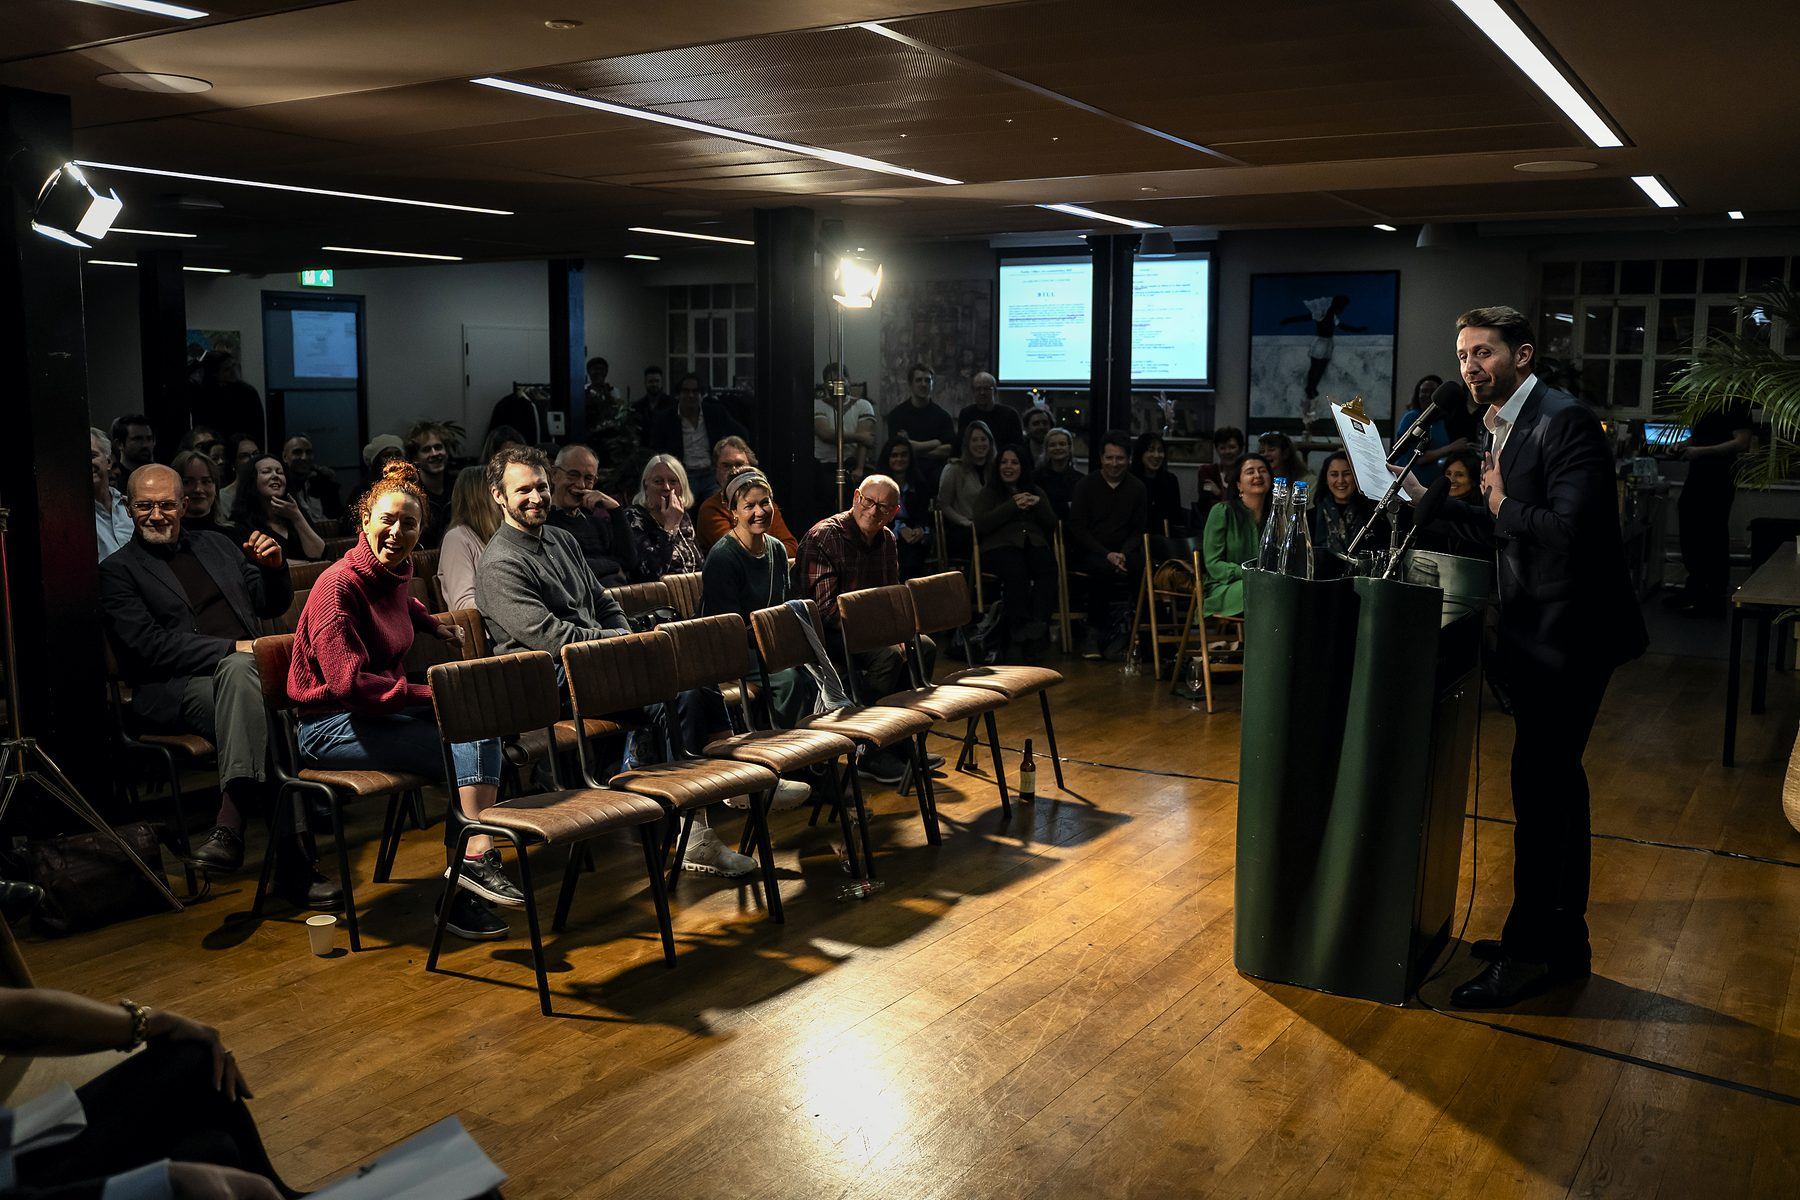
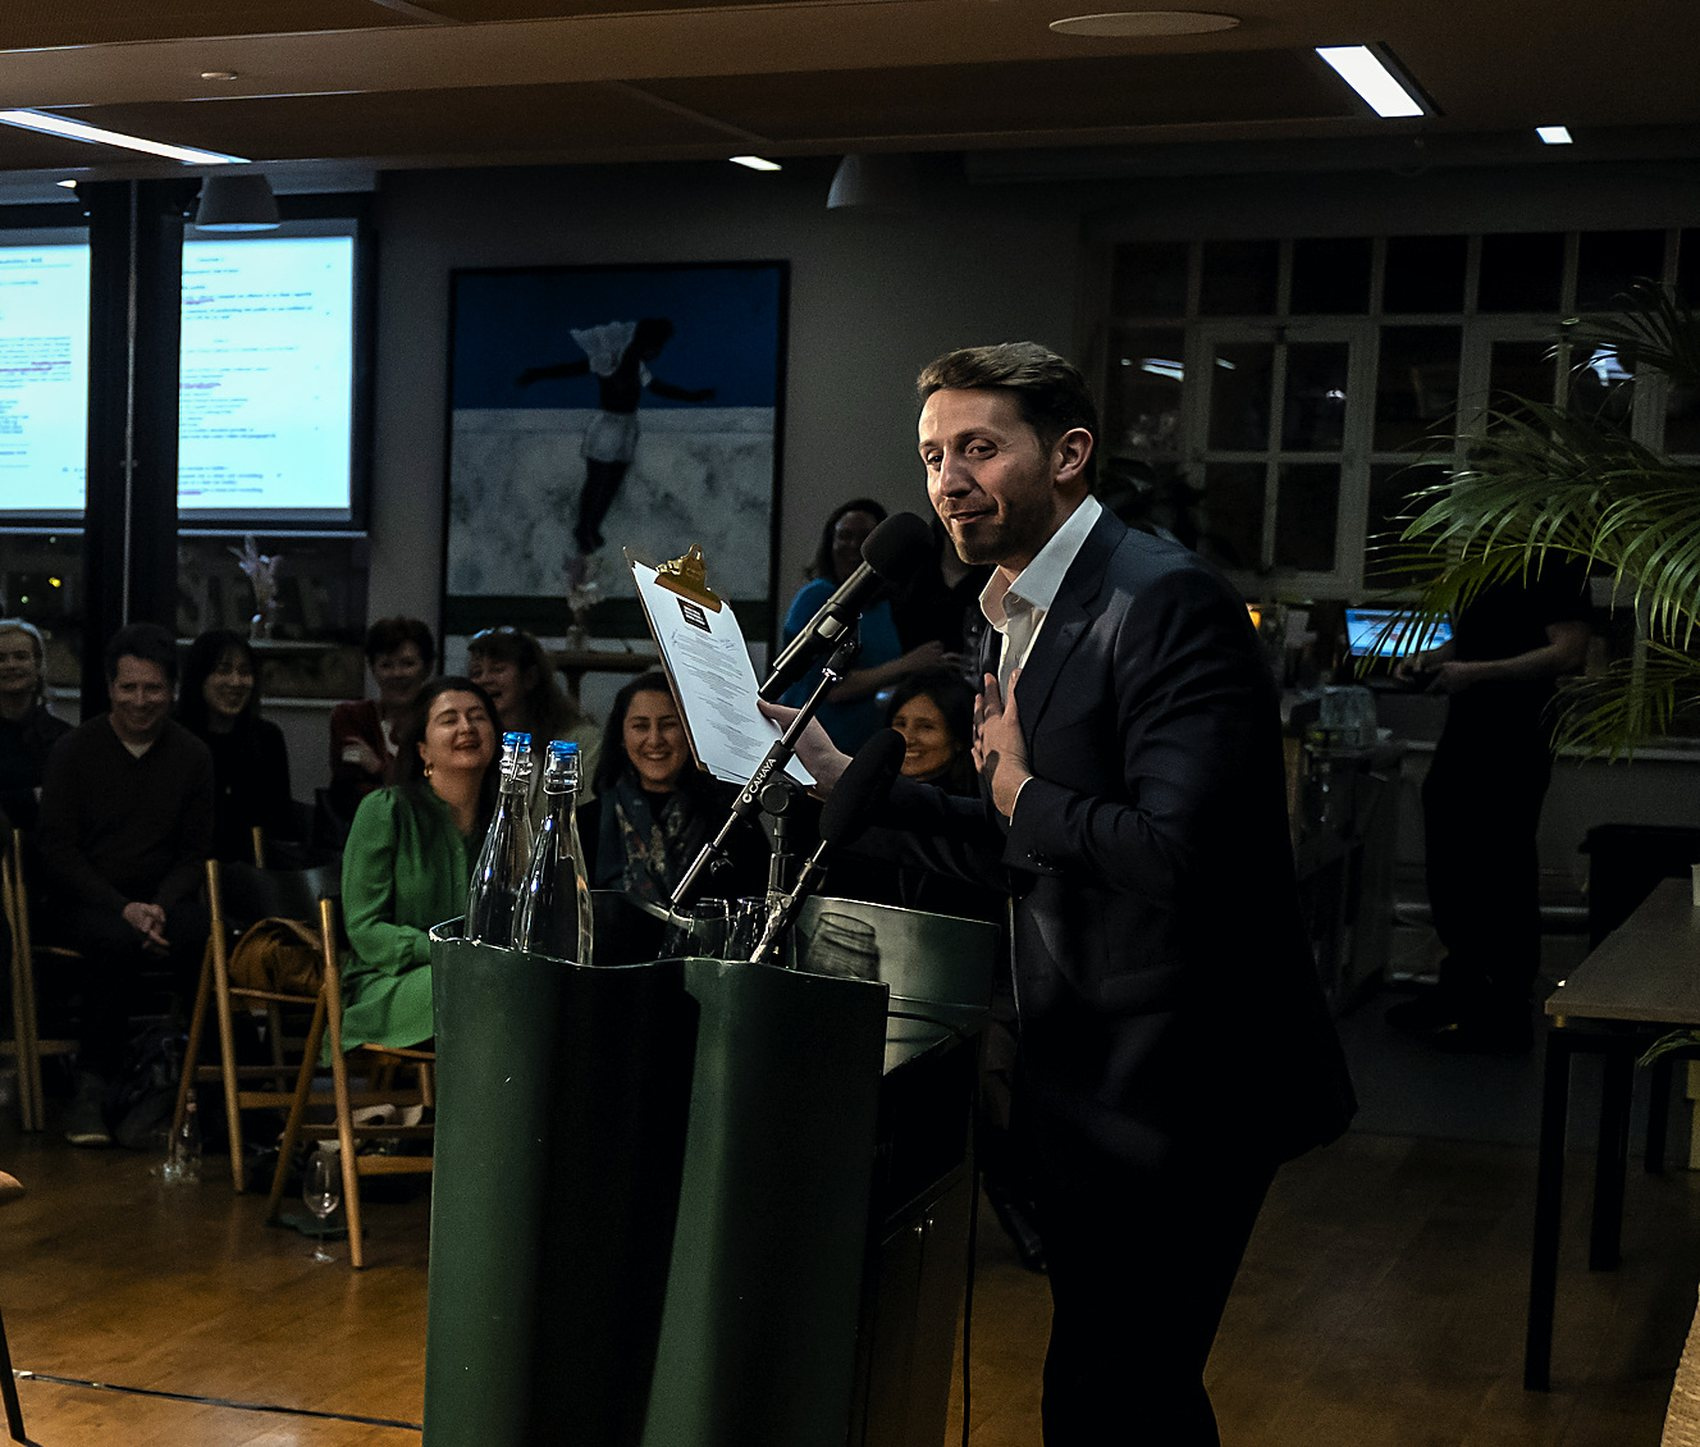
New home photograph, newsletter box confined, gallery cut to nineteen
Home hero is now image 38, cropped so Marcus is at the lectern on the right,
clear of the text column and the bar, with the packed room filling the frame.
Testimonials takes image 25, cropped past the empty chairs. The newsletter box
appears on the home page and the contact page only. The Photographs page is
rebuilt from scratch with the nineteen chosen frames.

diff --git a/index.html b/index.html
@@ -13,9 +13,9 @@
        The background locks onto these coordinates so, no matter what else changes
        on the site, his face stays consistently and pleasingly placed. If the hero
        image (mjb-bg.jpg) is ever replaced, update ONLY these three values. */
-    --hero-zoom:118%;  /* how far to zoom in on the face (background-size height) */
-    --hero-x:50%;      /* face horizontal focal position */
-    --hero-y:32%}       /* vertical focal: top of head sits just under the titles (clear gap), only the tops of the audience peek in at the bottom */
+    --hero-zoom:100%;  /* how far to zoom in on the face (background-size height) */
+    --hero-x:62%;      /* face horizontal focal position */
+    --hero-y:34%}       /* vertical focal: top of head sits just under the titles (clear gap), only the tops of the audience peek in at the bottom */
   @font-face{font-family:'Inter';src:url('fonts/inter-latin.woff2') format('woff2');font-weight:300 700;font-style:normal;font-display:swap}
   @font-face{font-family:'Instrument Serif';src:url('fonts/instrument-serif-latin.woff2') format('woff2');font-weight:400;font-style:normal;font-display:swap}
   html,body{height:100%}
@@ -68,6 +68,8 @@
   .socials-left a:hover{opacity:1;transform:translateY(-2px)}
   .socials-left svg{width:27px;height:27px;display:block;fill:#fff}
   /* newsletter signup — the site's call to action */
+  body.lp-open .subscribe{display:none}
+  body.lp-open.lp-contact .subscribe{display:block}
   .subscribe{position:absolute;z-index:9;right:46px;bottom:54px;width:330px;max-width:34vw;background:rgba(8,10,14,.58);border:1px solid rgba(255,255,255,.18);border-radius:2px;padding:20px;text-align:center;-webkit-backdrop-filter:blur(4px);backdrop-filter:blur(4px)}
   .subscribe .lab{margin:0 0 14px;font-size:14.5px;font-weight:600;color:#fff;letter-spacing:.01em;text-transform:none;line-height:1.35}
   .sub-note{font-size:13px;color:var(--soft);max-width:430px;margin:14px auto 16px;line-height:1.55}
@@ -540,6 +542,8 @@ var PATHS={ bio:'/biography', testimonials:'/testimonials', photos:'/photographs
 var PATH_TO_KIND={ '/biography':'bio', '/testimonials':'testimonials', '/photographs':'photos', '/press':'press', '/contact':'contact' };
 function openLeft(kind, fromRoute){
   var cfg=LEFT[kind]; if(!cfg) return;
+  try{ document.body.classList.add('lp-open');
+       document.body.classList.toggle('lp-contact', kind==='contact'); }catch(e){}
   var panel=document.getElementById('leftpanel'), cov=document.querySelector('.covered'), body=document.getElementById('leftBody');
   document.getElementById('leftTitle').textContent=cfg.title;
   body.innerHTML=''; body.scrollTop=0;
@@ -548,6 +552,7 @@ function openLeft(kind, fromRoute){
   if(!fromRoute){ try{ history.pushState({kind:kind}, '', PATHS[kind]||'/'); }catch(e){} }
 }
 function closeLeft(fromRoute){
+  try{ document.body.classList.remove('lp-open'); document.body.classList.remove('lp-contact'); }catch(e){}
   document.getElementById('leftpanel').classList.remove('open');
   document.querySelector('.covered').style.display='';
   if(!fromRoute){ try{ history.pushState({}, '', '/'); }catch(e){} }
@@ -684,7 +689,7 @@ function mjbToggleNav(force){
   var BG={
     home:{img:'mjb-home.jpg',size:'cover',pos:'50% 32%',mpos:'50% 30%'},
     bio:{img:'photos/studio-portrait-bw.jpg',size:'cover',pos:'63% 48%',mpos:'63% 44%'},
-    testimonials:{img:'photos/event-audience-2.jpg',size:'cover',pos:'40% 50%',mpos:'34% 50%'},
+    testimonials:{img:'photos/event-audience-1.jpg',size:'cover',pos:'58% 42%',mpos:'62% 40%'},
     press:{img:'photos/court-interview.jpg',size:'cover',pos:'36% 44%',mpos:'38% 40%'},
     contact:{img:'photos/channel4-interview.jpg',size:'cover',pos:'78% 35%',mpos:'80% 30%'},
     photos:{img:'photos/event-room-wide.jpg',size:'cover',pos:'44% 50%',mpos:'36% 50%'}

diff --git a/photos-data.js b/photos-data.js
@@ -1,1 +1,1 @@
-window.PHOTOS=[{"a":"Marcus J Ball speaking to a packed room","f":"photos/speaking-to-the-room.jpg"},{"a":"The team outside Westminster Magistrates’ Court","f":"photos/westminster-court-group.jpg"},{"a":"Marcus J Ball seated in front of a wall of television screens","f":"photos/tv-wall-seated.jpg"},{"a":"Marcus J Ball with the report, Parliament behind him","f":"photos/report-parliament-wide.jpg"},{"a":"The audience at an ExecProsec event","f":"photos/event-audience-2.jpg"},{"a":"Marcus J Ball being interviewed outside court","f":"photos/court-interview.jpg"},{"a":"Studio portrait of Marcus J Ball","f":"photos/studio-portrait-bw.jpg"},{"a":"Marcus J Ball at the National Covid Memorial Wall","f":"photos/covid-memorial-wall-2.jpg"},{"a":"Marcus J Ball in the edit","f":"photos/in-the-edit.jpg"},{"a":"Westminster Bridge at dusk","f":"photos/westminster-bridge.jpg"},{"a":"Marcus J Ball speaking at the lectern","f":"photos/speaking-at-the-lectern.jpg"},{"a":"Marcus J Ball speaking to reporters outside court","f":"photos/court-press-scrum.jpg"},{"a":"Marcus J Ball working on the case","f":"photos/working-on-the-laptop.jpg"},{"a":"Marcus J Ball on the Cornish coast at sunset","f":"photos/cornwall-sunset.jpg"},{"a":"Marcus J Ball in conversation after speaking","f":"photos/event-conversation-1.jpg"},{"a":"Marcus J Ball at home","f":"photos/at-home-window.jpg"},{"a":"Marcus J Ball in front of a wall of television screens","f":"photos/tv-wall-wide.jpg"},{"a":"Marcus J Ball holding the report, Big Ben behind him","f":"photos/report-big-ben-portrait.jpg"}];
+window.PHOTOS=[{"a": "Marcus J Ball speaking to a packed room", "f": "photos/speaking-to-the-room.jpg"}, {"a": "A full room listening as Marcus J Ball speaks", "f": "photos/audience-wide-1.jpg"}, {"a": "Standing room only at a Marcus J Ball event", "f": "photos/audience-wide-2.jpg"}, {"a": "Marcus J Ball at the lectern", "f": "photos/lectern-close.jpg"}, {"a": "Marcus J Ball in conversation after the event", "f": "photos/event-conversation-1.jpg"}, {"a": "Marcus J Ball talking with a guest", "f": "photos/event-conversation-2.jpg"}, {"a": "Marcus J Ball with producer Kazeem Manzur", "f": "photos/with-kaz.jpg"}, {"a": "On set with the documentary team", "f": "photos/with-kalum.jpg"}, {"a": "Marcus J Ball working between takes", "f": "photos/working-on-the-laptop.jpg"}, {"a": "In the edit with the documentary team", "f": "photos/in-the-edit.jpg"}, {"a": "Filming at the wall of television screens", "f": "photos/filming-at-the-tv-wall.jpg"}, {"a": "Marcus J Ball seated in front of a wall of television screens", "f": "photos/tv-wall-seated.jpg"}, {"a": "Marcus J Ball with the press outside court", "f": "photos/court-press-scrum.jpg"}, {"a": "Marcus J Ball with supporters outside court", "f": "photos/court-supporters.jpg"}, {"a": "Marcus J Ball speaking to supporters outside court", "f": "photos/court-speaking-to-supporters.jpg"}, {"a": "Supporters gathered outside Westminster Magistrates’ Court", "f": "photos/court-crowd.jpg"}, {"a": "Marcus J Ball filmed outside court", "f": "photos/court-filmed.jpg"}, {"a": "The team outside Westminster Magistrates’ Court", "f": "photos/westminster-court-group.jpg"}, {"a": "Marcus J Ball on Westminster Bridge at dawn", "f": "photos/westminster-bridge.jpg"}];
